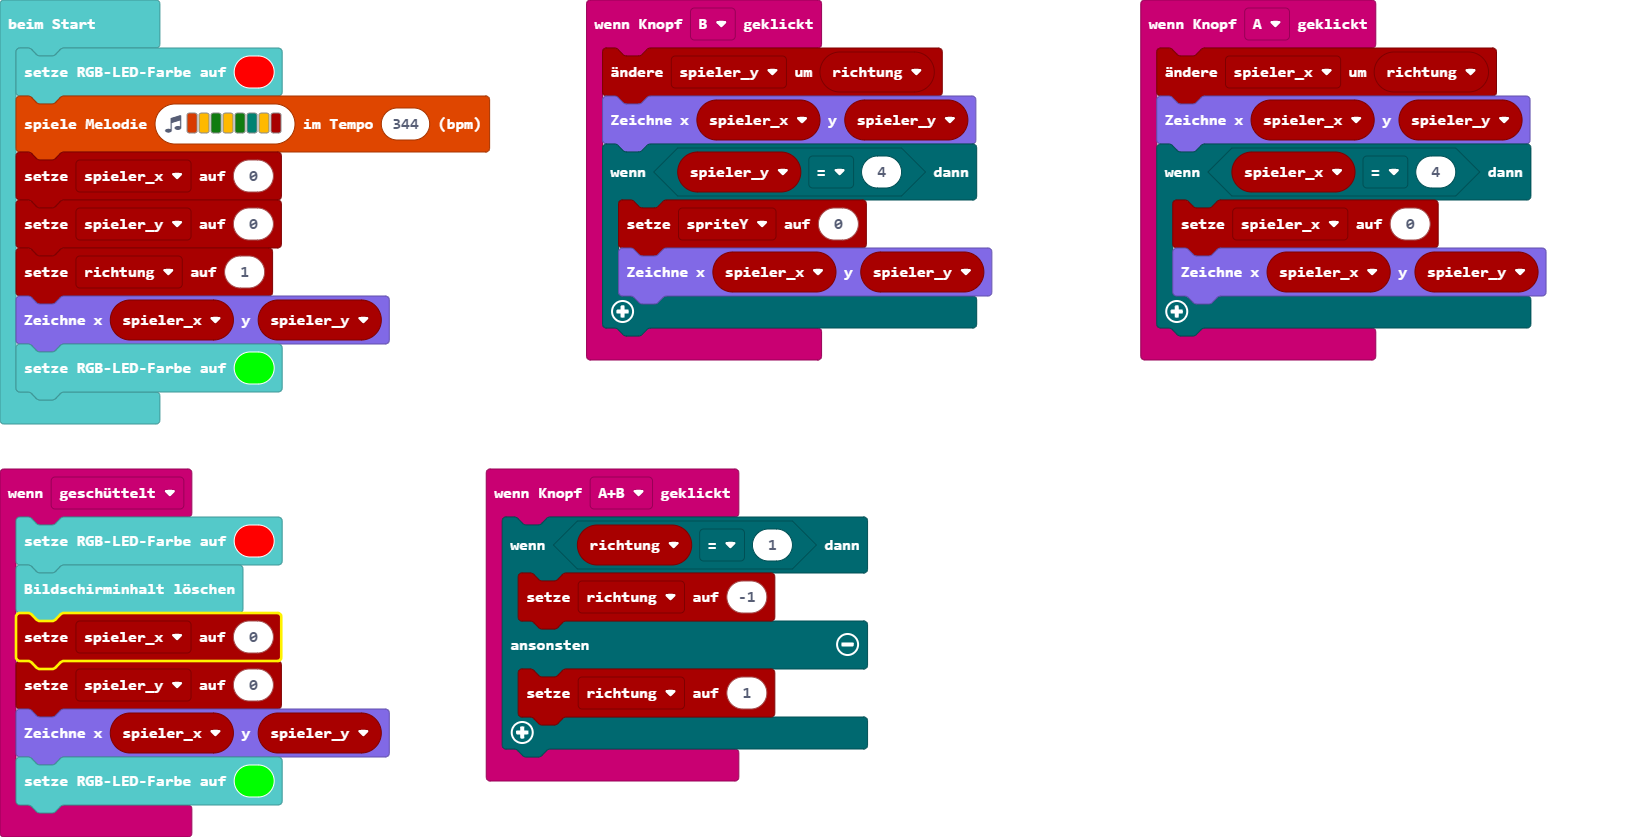
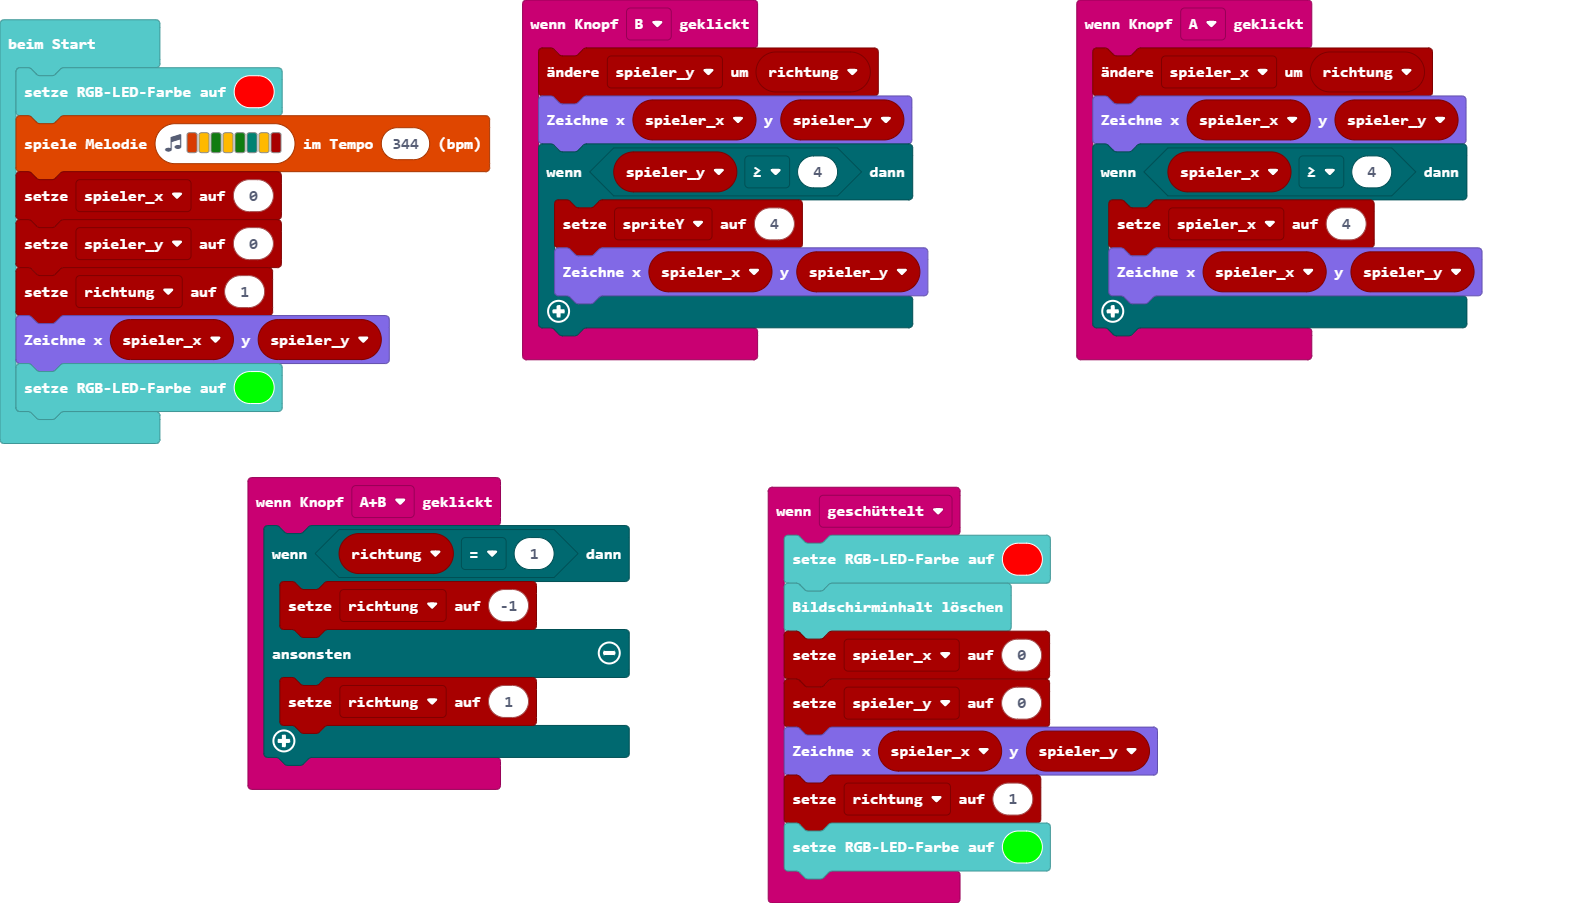
Aktualisiere main.blocks, main.ts

diff --git a/main.ts b/main.ts
@@ -1,8 +1,8 @@
 input.onButtonPressed(Button.A, function () {
     spieler_x += richtung
     led.plot(spieler_x, spieler_y)
-    if (spieler_x == 4) {
-        spieler_x = 0
+    if (spieler_x >= 4) {
+        spieler_x = 4
         led.plot(spieler_x, spieler_y)
     }
 })
@@ -12,6 +12,7 @@ input.onGesture(Gesture.Shake, function () {
     spieler_x = 0
     spieler_y = 0
     led.plot(spieler_x, spieler_y)
+    richtung = 1
     basic.setLedColor(0x00ff00)
 })
 input.onButtonPressed(Button.AB, function () {
@@ -24,8 +25,8 @@ input.onButtonPressed(Button.AB, function () {
 input.onButtonPressed(Button.B, function () {
     spieler_y += richtung
     led.plot(spieler_x, spieler_y)
-    if (spieler_y == 4) {
-        spriteY = 0
+    if (spieler_y >= 4) {
+        spriteY = 4
         led.plot(spieler_x, spieler_y)
     }
 })
